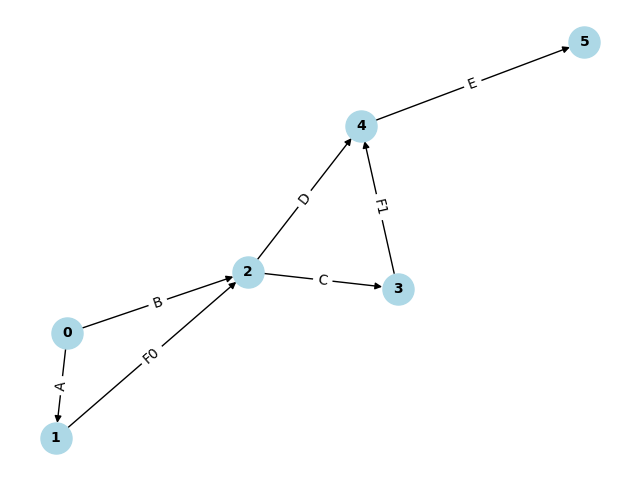
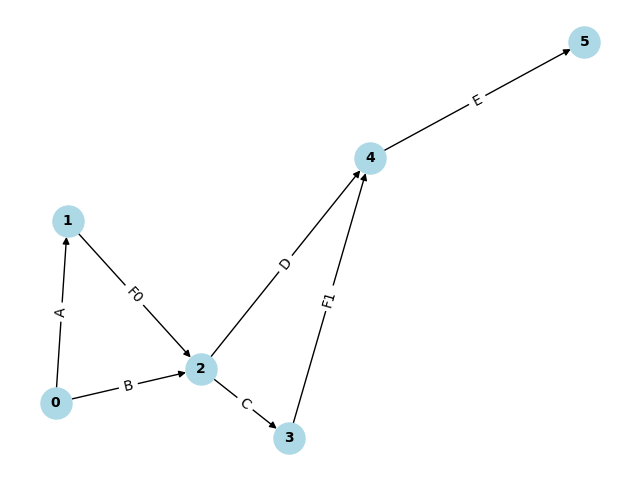
V1.2
Pequeños errores arreglados y correcta realización de los 3 primeros ejercicios

diff --git a/archivo.tex b/archivo.tex
@@ -2,11 +2,11 @@
 \begin{table}[h]
 \begin{tabular}{llllll}
 Tarea & $t_o$ & $t_m$ & $t_p$ & $D_e$ & $\sigma^{2}$ \\
-A & 3 & 5 & 8 & 5.167 & 0.694 \\
-B & 2 & 2 & 4 & 2.333 & 0.111 \\
-C & 3 & 4 & 5 & 4.0 & 0.111 \\
-D & 2 & 5 & 9 & 5.167 & 1.361 \\
-E & 2 & 4 & 5 & 3.833 & 0.25 \\
+A & 3 & 3 & 3 & 3.0 & 0.0 \\
+B & 2 & 2 & 2 & 2.0 & 0.0 \\
+C & 2 & 2 & 2 & 2.0 & 0.0 \\
+D & 1 & 1 & 1 & 1.0 & 0.0 \\
+E & 3 & 3 & 3 & 3.0 & 0.0 \\
 \end{tabular}
 \end{table}
 
@@ -14,16 +14,16 @@ E & 2 & 4 & 5 & 3.833 & 0.25 \\
 
 
 $E_0 = 0$\\
-$E_1 = Max \{E_1 + A\} = 5.167$\\
-$E_2 = Max \{E_2 + B, E_2 + F0\} = 5.167$\\
-$E_3 = Max \{E_3 + C\} = 9.167$\\
-$E_4 = Max \{E_4 + D, E_4 + F1\} = 10.334$\\
-$E_5 = Max \{E_5 + E\} = 14.167$\\
-$L_5 = E_5 = 14.167$\\
-$L_4 = Min \{L_5 - E\} = 10.334$\\
-$L_3 = Min \{L_4 - F1\} = 10.334$\\
-$L_2 = Min \{L_3 - C, L_4 - D\} = 5.167$\\
-$L_1 = Min \{L_2 - F0\} = 5.167$\\
+$E_1 = Max \{E_0 + A\} = 3.0$\\
+$E_2 = Max \{E_1 + B, E_1 + F0\} = 3.0$\\
+$E_3 = Max \{E_2 + C\} = 5.0$\\
+$E_4 = Max \{E_3 + D, E_3 + F1\} = 5.0$\\
+$E_5 = Max \{E_4 + E\} = 8.0$\\
+$L_5 = E_5 = 8.0$\\
+$L_4 = Min \{L_5 - E\} = 5.0$\\
+$L_3 = Min \{L_4 - F1\} = 5.0$\\
+$L_2 = Min \{L_3 - C, L_4 - D\} = 3.0$\\
+$L_1 = Min \{L_2 - F0\} = 3.0$\\
 $L_0 = Min \{L_1 - A, L_2 - B\} = 0.0$\\
 
 
@@ -33,11 +33,11 @@ $L_0 = Min \{L_1 - A, L_2 - B\} = 0.0$\\
 \begin{tabular}{lll}
 $t_i$ & $E_i$ & $L_i$ \\
 0 & 0 & 0.0 \\
-1 & 5.167 & 5.167 \\
-2 & 5.167 & 5.167 \\
-3 & 9.167 & 10.334 \\
-4 & 10.334 & 10.334 \\
-5 & 14.167 & 14.167 \\
+1 & 3.0 & 3.0 \\
+2 & 3.0 & 3.0 \\
+3 & 5.0 & 5.0 \\
+4 & 5.0 & 5.0 \\
+5 & 8.0 & 8.0 \\
 \end{tabular}
 \end{table}
 
@@ -45,11 +45,11 @@ $t_i$ & $E_i$ & $L_i$ \\
 
 
 $H_A = L_1 - E_0 - D_A = 0$\\
-$H_B = L_2 - E_0 - D_B = 2.834$\\
+$H_B = L_2 - E_0 - D_B = 1.0$\\
 $H_{F0} = L_2 - E_1 = 0$\\
-$H_C = L_3 - E_2 - D_C = 1.167$\\
-$H_D = L_4 - E_2 - D_D = 0$\\
-$H_{F1} = L_4 - E_3 = 1.167$\\
+$H_C = L_3 - E_2 - D_C = 0$\\
+$H_D = L_4 - E_2 - D_D = 1.0$\\
+$H_{F1} = L_4 - E_3 = 0$\\
 $H_E = L_5 - E_4 - D_E = 0$\\
 
 
@@ -59,11 +59,11 @@ $H_E = L_5 - E_4 - D_E = 0$\\
 \resizebox{\textwidth}{!}{
 \begin{tabular}{lllllll}
 Tarea & Ruta   ($i \longrightarrow j$) & $D_{ij}$ & $E_i$ & $L_j$ & $H_{ij}$  = $L_j - E_i - D_{ij}$ & Crítica \\
-A & $0 \longrightarrow 1$ & 5.167 & 0 & 5.167 & 0 & x \\
-B & $0 \longrightarrow 2$ & 2.333 & 0 & 5.167 & 2.834 &  \\
-C & $2 \longrightarrow 3$ & 4.0 & 5.167 & 10.334 & 1.167 &  \\
-D & $2 \longrightarrow 4$ & 5.167 & 5.167 & 10.334 & 0 & x \\
-E & $4 \longrightarrow 5$ & 3.833 & 10.334 & 14.167 & 0 & x
+A & $0 \longrightarrow 1$ & 3.0 & 0 & 3.0 & 0 & x \\
+B & $0 \longrightarrow 2$ & 2.0 & 0 & 3.0 & 1.0 &  \\
+C & $2 \longrightarrow 3$ & 2.0 & 3.0 & 5.0 & 0 & x \\
+D & $2 \longrightarrow 4$ & 1.0 & 3.0 & 5.0 & 1.0 &  \\
+E & $4 \longrightarrow 5$ & 3.0 & 5.0 & 8.0 & 0 & x
 \end{tabular}%
 }
 \end{table}
@@ -72,6 +72,6 @@ E & $4 \longrightarrow 5$ & 3.833 & 10.334 & 14.167 & 0 & x
 
 
 Caminos críticos:\\
-A-F0-D-E\\
+A-F0-C-F1-E\\
 
-Duración del camino crítico: 14.167
+Duración del camino crítico: 8.0

diff --git a/funciones_auxiliares.py b/funciones_auxiliares.py
@@ -65,7 +65,7 @@ def generar_aristas(df):
         
         # Generar los nodos con una dependencia
         elif len(df[i]["depende_de"]) == 1:
-            it=1
+            it=0
             conseguido=False
             while (it< len(aristas) and  not conseguido):
                 if df[i]["depende_de"][0] == aristas[it]["actividad"]:
@@ -85,14 +85,14 @@ def generar_aristas(df):
                             nodoFinal.append(aristas[aux1]["tupla"][1])
             nodoFinal.sort()
             for aux2 in range(len(nodoFinal)-1):
-                aristas[nInd] = {"tupla": (nodoFinal[aux2], nodoFinal[aux2]+1), "actividad": "F"+str(actFicticias)}
+                aristas[nInd] = {"tupla": (nodoFinal[aux2], nodoFinal[aux2+1]), "actividad": "F"+str(actFicticias)}
                 nInd+=1
                 actFicticias += 1
                 # IMPORTANTE DEJO ACTIVIDADES FICTICIAS A 1 VALOR DEL QUE ESTA ESCRITO PARA QUE LA PROXIMA SE ESCRIBA BIEN
             aux3=0
             encontrado=False
             while aux3 < len(aristas) and not encontrado:
-                # IMPORTANTE RESTO 1 PORQUE EN VERDAD HE ESCRITO HASTA ACTIIDADES FICTICIAS -1
+                # IMPORTANTE RESTO 1 PORQUE EN VERDAD HE ESCRITO HASTA ACTIIDADES FICTICIAS -1 YA QUE EMPIEZO EN 0
                 if aristas[aux3]["actividad"] == "F"+str(actFicticias-1):
                     nodoAux=aristas[aux3]["tupla"][1]
                     aristas[nInd] = {"tupla": (nodoAux, n+1), "actividad": i}
@@ -101,7 +101,21 @@ def generar_aristas(df):
 
                 aux3+=1
         n += 1
+    #Comprobar que no quedan nodos sueltos
+    aristasAux = aristas.copy()
+    for valor in aristasAux.values():
+                tieneFin=False
+                for valor2 in aristasAux.values():
+                    if valor["tupla"][1] == valor2["tupla"][0]:
+                        tieneFin=True
+                if not tieneFin and valor["tupla"][1] != n:
+                    aristas[nInd] = {"tupla": (valor["tupla"][1], n), "actividad": "F"+str(actFicticias)}
+                    nInd+=1
+                    actFicticias += 1
     return aristas
 
 def redondear(valor):
+    """
+    Redondea un valor a 3 decimales.
+    """
     return round(valor, 3)

diff --git a/Main.py b/Main.py
@@ -1,4 +1,5 @@
 import re
+import sys
 
 import matplotlib.pyplot as plt
 import networkx as nx
@@ -7,9 +8,19 @@ import pandas as pd
 from funciones_auxiliares import (generar_aristas, letra_a_numero,
                                   numero_a_letra, redondear)
 
-# Leer el archivo Excel
-file_path = "input.xlsx"
-data = pd.read_excel(file_path, sheet_name=0)
+# Leer el archivo Excel con los datos
+file_path = input("Indica el ejercicio a realizar (Ejemplo a escribir: ej5.xlsx):  ")
+try:
+    data = pd.read_excel(file_path, sheet_name=0)
+    print("Archivo leído correctamente.")
+except FileNotFoundError:
+    print("No se encontró el archivo. Por favor, verifica el nombre y la ubicación.")
+    sys.exit()
+except Exception as e:
+    log=input("Ocurrió un error al intentar leer el archivo (y para ver el log): ")
+    if log == "y":
+        print(e)
+    sys.exit()
 
 # Crear un diccionario para almacenar las duraciones
 duraciones = {}
@@ -101,7 +112,7 @@ for nodo in nodos:
             contador =sum(1 for arista, valor in aristas.items() if valor["tupla"][1] == nodo)
             for arista,valor in aristas.items():
                 if valor["tupla"][1] == nodo:
-                    archivo.write(f"E_{nodo} + {valor["actividad"]}")
+                    archivo.write(f"E_{nodo-1} + {valor["actividad"]}")
                     contador=contador-1
                     if contador > 0:
                         archivo.write(", ")
